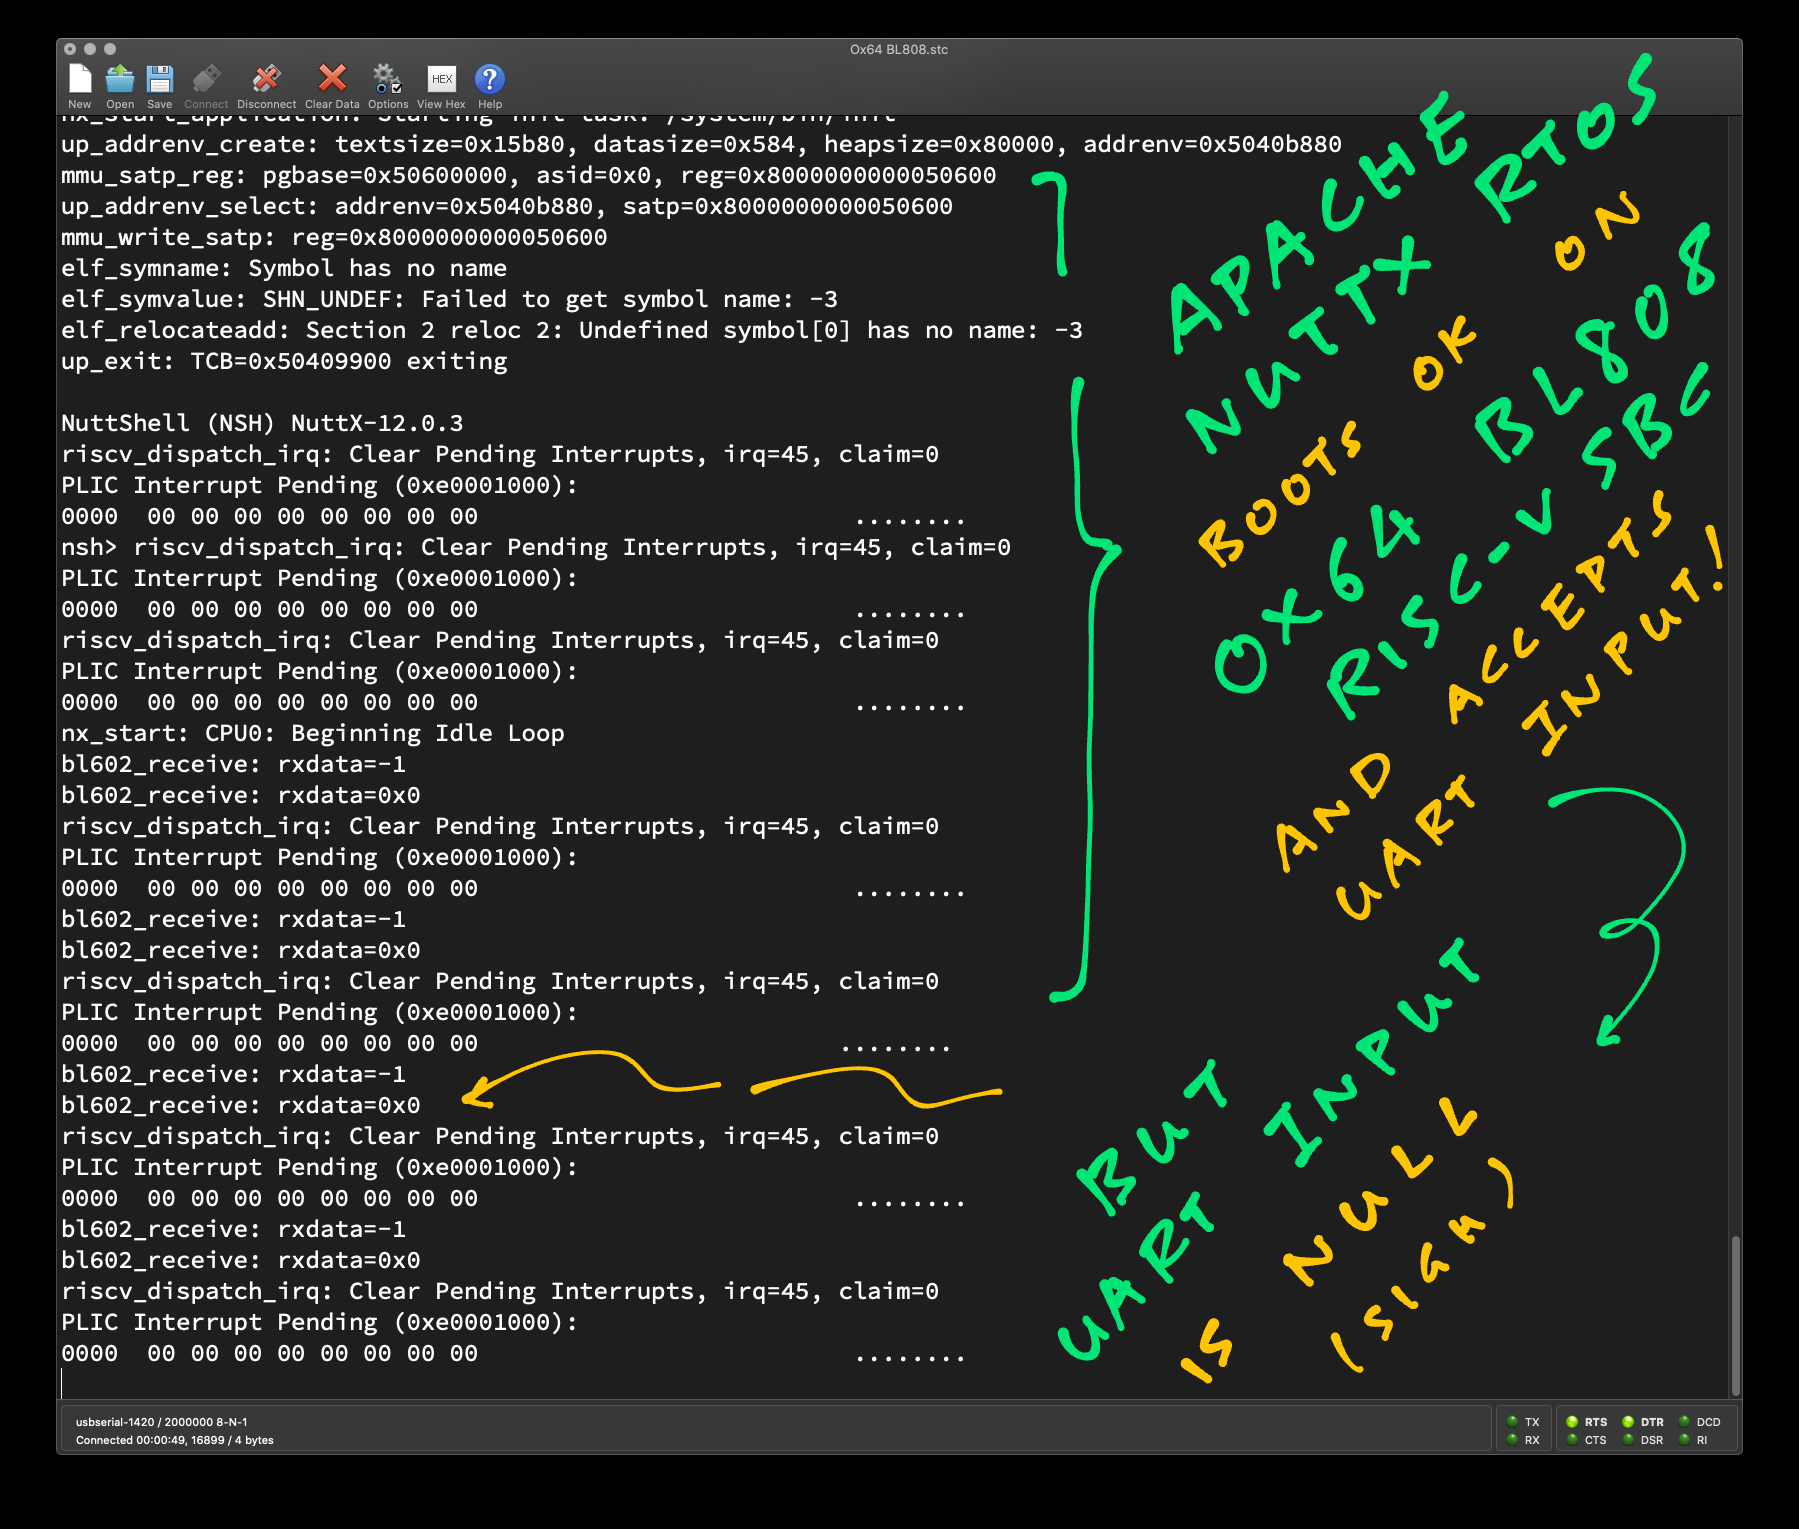
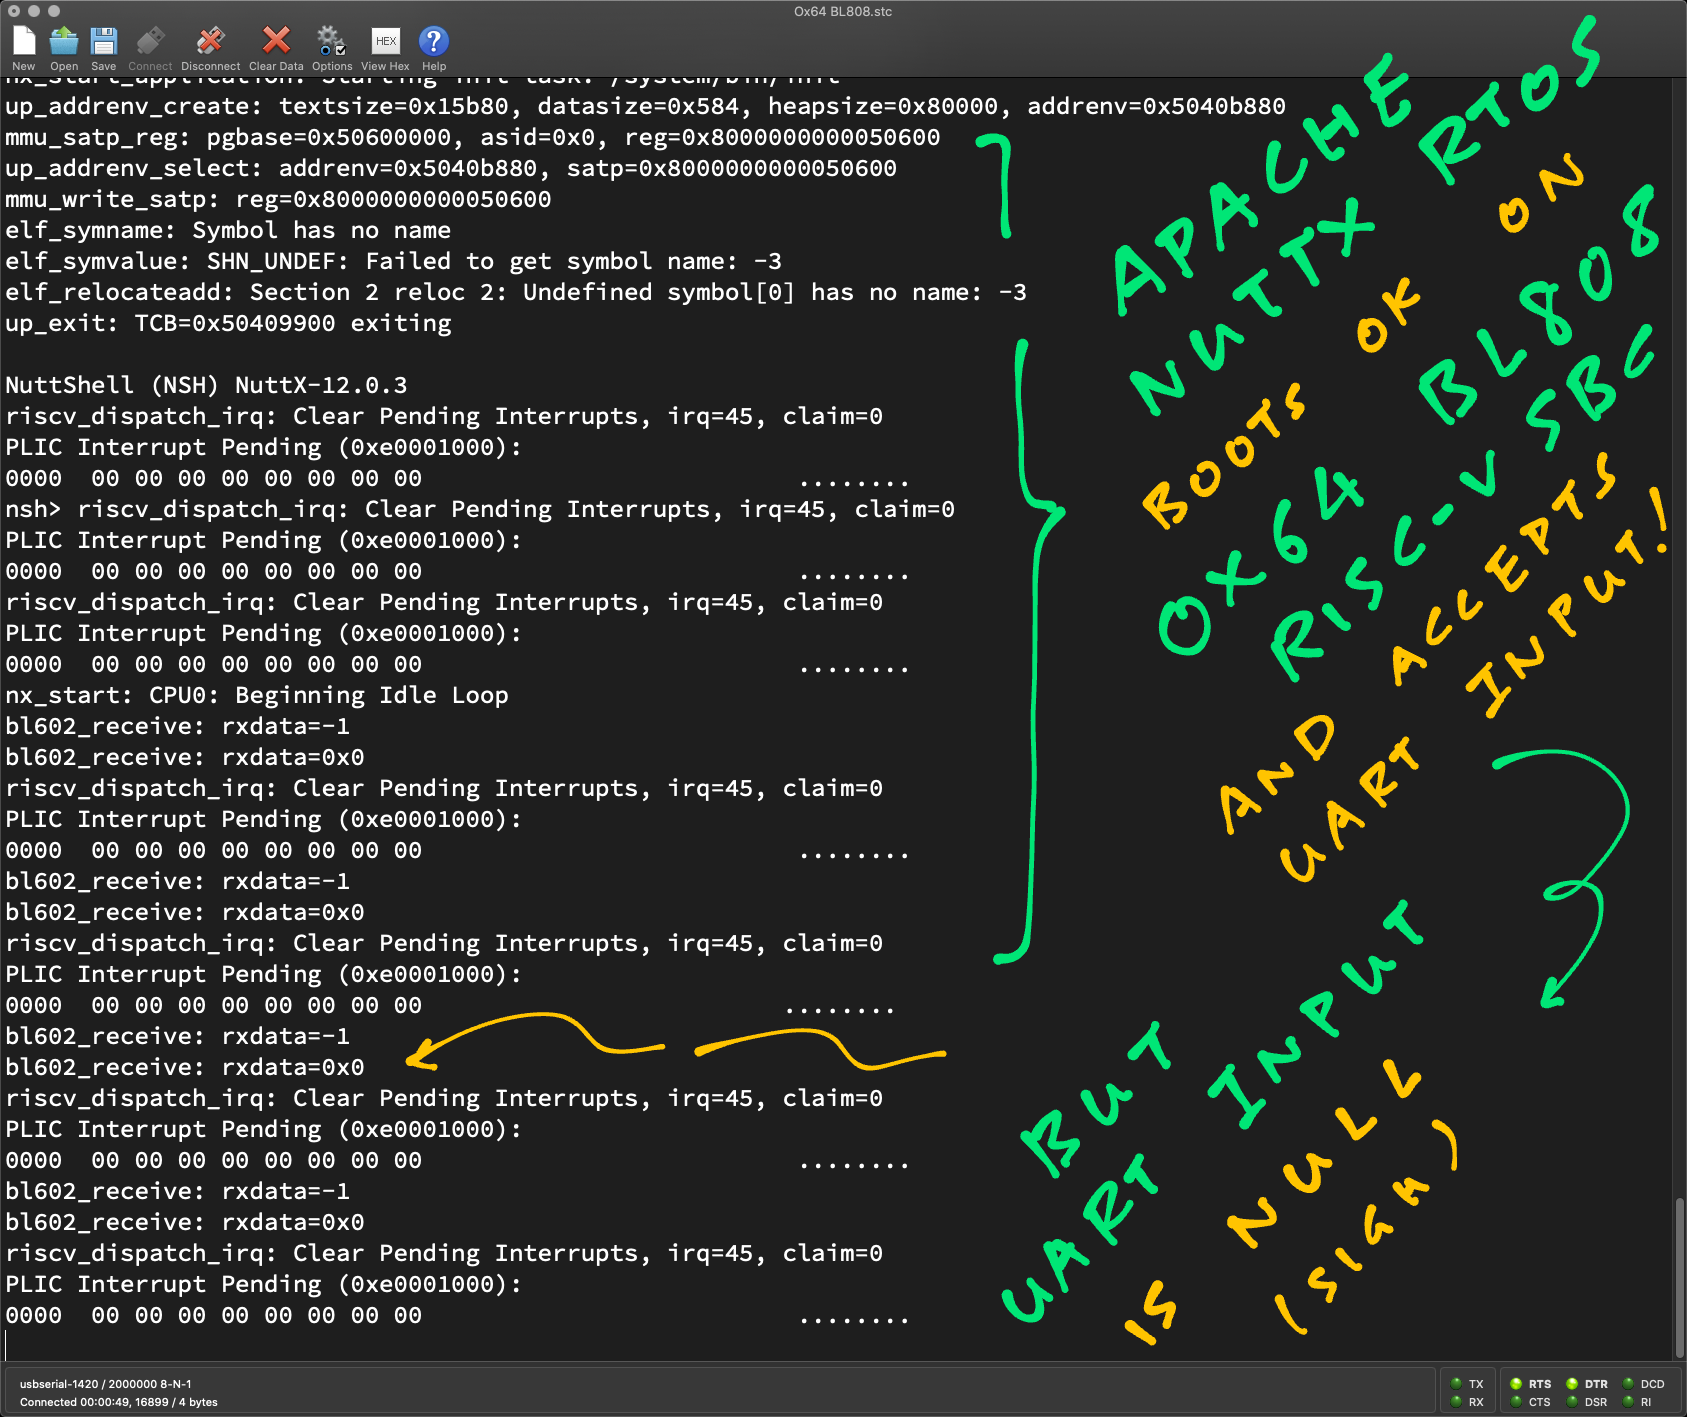
Update article

diff --git a/src/plic2.md b/src/plic2.md
@@ -738,7 +738,7 @@ But the [__UART Input is empty__](https://github.com/lupyuen2/wip-pinephone-nutt
 
 Meanwhile we wrap up our story for today...
 
-TODO: Screenshot
+![NuttX boots OK on Ox64 BL808! But UART Input is null](https://lupyuen.github.io/images/plic2-run.png)
 
 # All Things Considered
 
@@ -905,11 +905,11 @@ void riscv_serialinit(void) {
 }
 ```
 
-And the UART Driver works OK for printing output to the Ox64 Serial Console! (But not for input)
+And the UART Driver works OK for printing output to the Ox64 Serial Console! (But not for input, pic below)
 
 [(See the __Complete Log__)](https://gist.github.com/lupyuen/4e8ca1f0c0c2bd3b22a8b63f098abdd5#file-ox64-nuttx-int-clear-pending-log-L110-L323)
 
-TODO: Console Pic
+![NuttX boots OK on Ox64 BL808! But UART Input is null](https://lupyuen.github.io/images/plic2-run.png)
 
 # Appendix: Build and Run NuttX
 
